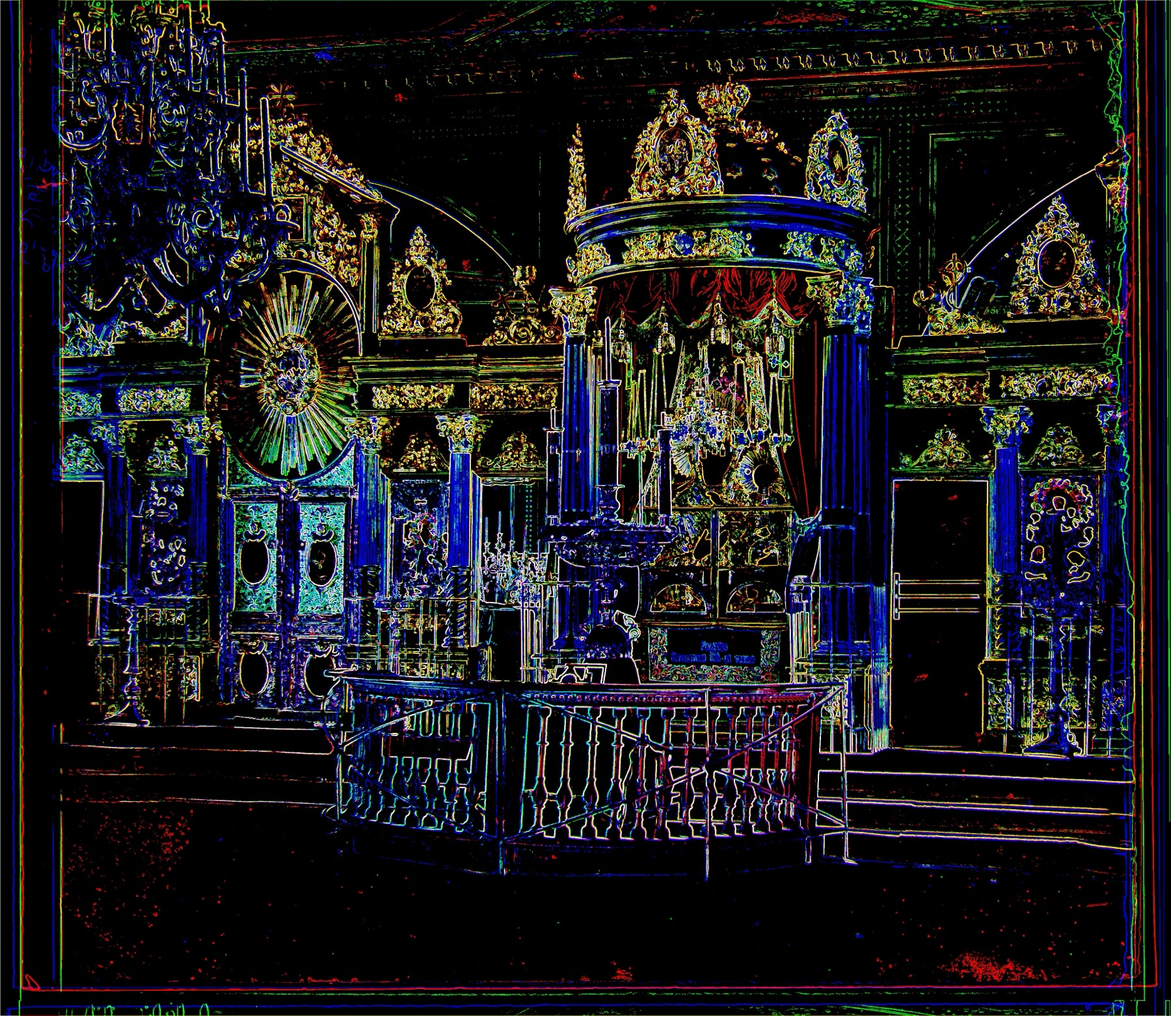
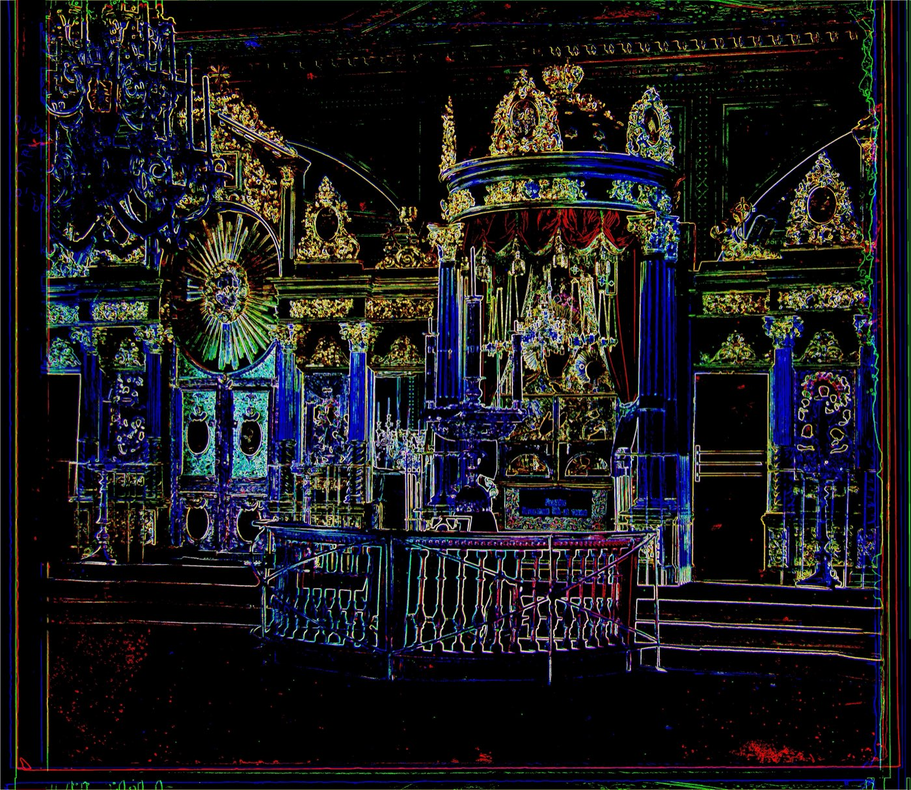
optimize all images

Changed region(s): [[0.0307, 0.0, 0.9829, 0.8534], [0.9521, 0.9448, 0.9829, 0.9753], [0.9521, 0.8229, 0.9829, 0.8534]]

diff --git a/cs180/russia_images.html b/cs180/russia_images.html
@@ -84,13 +84,13 @@
     <div class="image-row">
       <div class="image-col">
         <figure>
-          <img src="media/proj1/color_adjusted/icon.jpg" alt="Icon Features" loading="lazy" class="feature-image">
+          <img src="media/proj1/color_adjusted/icon_opt.jpg" alt="Icon Features" loading="lazy" class="feature-image">
           <figcaption>Icon Image</figcaption>
         </figure>
       </div>
       <div class="image-col">
         <figure>
-          <img src="media/proj1/image_features/icon_feats.jpg" alt="Icon Features" loading="lazy" class="feature-image">
+          <img src="media/proj1/image_features/optimized/icon_feats_opt.jpg" alt="Icon Features" loading="lazy" class="feature-image">
           <figcaption>Icon Features</figcaption>
         </figure>
       </div>
@@ -137,11 +137,11 @@
       <div class="image-figures">
         <figure>
           <figcaption>No Correction</figcaption>
-          <img src="media/proj1/overlayed/lastochikino.jpg" alt="Lastochikino - No Correction">
+          <img src="media/proj1/overlayed/lastochikino_opt.jpg" alt="Lastochikino - No Correction">
         </figure>
         <figure>
           <figcaption>Color Correction</figcaption>
-          <img src="media/proj1/color_adjusted/lastochikino.jpg" alt="Lastochikino - Color Adjusted">
+          <img src="media/proj1/color_adjusted/lastochikino_opt.jpg" alt="Lastochikino - Color Adjusted">
         </figure>
       </div>
       <div class="image-metadata">lastochikino rb: [-75, 8] rg: [-78, 6] time: 28s</div>
@@ -151,11 +151,11 @@
       <div class="image-figures">
         <figure>
           <figcaption>No Correction</figcaption>
-          <img src="media/proj1/overlayed/harvesters.jpg" alt="Harvesters - No Correction">
+          <img src="media/proj1/overlayed/harvesters_opt.jpg" alt="Harvesters - No Correction">
         </figure>
         <figure>
           <figcaption>Color Correction</figcaption>
-          <img src="media/proj1/color_adjusted/harvesters.jpg" alt="Harvesters - Color Adjusted">
+          <img src="media/proj1/color_adjusted/harvesters_opt.jpg" alt="Harvesters - Color Adjusted">
         </figure>
       </div>
       <div class="image-metadata">harvesters rb: [-123, -14] rg: [-64, 3] time: 24s</div>
@@ -164,10 +164,10 @@
     <div class="image-pair">
       <div class="image-figures">
         <figure>
-          <img src="media/proj1/overlayed/icon.jpg" alt="Icon - No Correction">
+          <img src="media/proj1/overlayed/icon_opt.jpg" alt="Icon - No Correction">
         </figure>
         <figure>
-          <img src="media/proj1/color_adjusted/icon.jpg" alt="Icon - Color Adjusted">
+          <img src="media/proj1/color_adjusted/icon_opt.jpg" alt="Icon - Color Adjusted">
         </figure>
       </div>
       <div class="image-metadata">icon rb: [-90, -23] rg: [-49, -5] time: 25s</div>
@@ -176,10 +176,10 @@
     <div class="image-pair">
       <div class="image-figures">
         <figure>
-          <img src="media/proj1/overlayed/church.jpg" alt="Church - No Correction">
+          <img src="media/proj1/overlayed/church_opt.jpg" alt="Church - No Correction">
         </figure>
         <figure>
-          <img src="media/proj1/color_adjusted/church.jpg" alt="Church - Color Adjusted">
+          <img src="media/proj1/color_adjusted/church_opt.jpg" alt="Church - Color Adjusted">
         </figure>
       </div>
       <div class="image-metadata">church rb: [-58, 4] rg: [-33, 8] time: 26s</div>
@@ -188,10 +188,10 @@
   <div class="image-pair">
     <div class="image-figures">
       <figure>
-        <img src="media/proj1/overlayed/bonus-forest.jpg" alt="Forest - No Correction">
+        <img src="media/proj1/overlayed/bonus-forest_opt.jpg" alt="Forest - No Correction">
       </figure>
       <figure>
-        <img src="media/proj1/color_adjusted/bonus-forest.jpg" alt="Forest - Color Adjusted">
+        <img src="media/proj1/color_adjusted/bonus-forest_opt.jpg" alt="Forest - Color Adjusted">
       </figure>
     </div>
     <div class="image-metadata">forest rb: [-97, -8] rg: [-59, -35] time: 25s</div>
@@ -200,10 +200,10 @@
     <div class="image-pair">
       <div class="image-figures">
         <figure>
-          <img src="media/proj1/overlayed/bonus-train.jpg" alt="Bonus Train - No Correction">
+          <img src="media/proj1/overlayed/bonus-train_opt.jpg" alt="Bonus Train - No Correction">
         </figure>
         <figure>
-          <img src="media/proj1/color_adjusted/bonus-train.jpg" alt="Bonus Train - Color Adjusted">
+          <img src="media/proj1/color_adjusted/bonus-train_opt.jpg" alt="Bonus Train - Color Adjusted">
         </figure>
       </div>
       <div class="image-metadata">train* rb: [-292, -168] rg: [-254, 199] time: 28s</div>
@@ -212,10 +212,10 @@
     <div class="image-pair">
       <div class="image-figures">
         <figure>
-          <img src="media/proj1/overlayed/bonus-bridge.jpg" alt="Bonus Bridge - No Correction">
+          <img src="media/proj1/overlayed/bonus-bridge_opt.jpg" alt="Bonus Bridge - No Correction">
         </figure>
         <figure>
-          <img src="media/proj1/color_adjusted/bonus-bridge.jpg" alt="Bonus Bridge - Color Adjusted">
+          <img src="media/proj1/color_adjusted/bonus-bridge_opt.jpg" alt="Bonus Bridge - Color Adjusted">
         </figure>
       </div>
       <div class="image-metadata">bridge rb: [-117, 28] rg: [-54, 15] time: 39s</div>
@@ -224,10 +224,10 @@
     <div class="image-pair">
       <div class="image-figures">
         <figure>
-          <img src="media/proj1/overlayed/bonus-greenhouse.jpg" alt="Bonus Greenhouse - No Correction">
+          <img src="media/proj1/overlayed/bonus-greenhouse_opt.jpg" alt="Bonus Greenhouse - No Correction">
         </figure>
         <figure>
-          <img src="media/proj1/color_adjusted/bonus-greenhouse.jpg" alt="Bonus Greenhouse - Color Adjusted">
+          <img src="media/proj1/color_adjusted/bonus-greenhouse_opt.jpg" alt="Bonus Greenhouse - Color Adjusted">
         </figure>
       </div>
       <div class="image-metadata">greenhouse rb: [-126, -33] rg: [-66, -6] time: 28s</div>
@@ -236,10 +236,10 @@
     <div class="image-pair">
       <div class="image-figures">
         <figure>
-          <img src="media/proj1/overlayed/cathedral.jpg" alt="Cathedral - No Correction">
+          <img src="media/proj1/overlayed/cathedral_opt.jpg" alt="Cathedral - No Correction">
         </figure>
         <figure>
-          <img src="media/proj1/color_adjusted/cathedral.jpg" alt="Cathedral - Color Adjusted">
+          <img src="media/proj1/color_adjusted/cathedral_opt.jpg" alt="Cathedral - Color Adjusted">
         </figure>
       </div>
       <div class="image-metadata">cathedral rb: [-12, -3] rg: [-7, -1] time: 1s</div>
@@ -248,10 +248,10 @@
     <div class="image-pair">
       <div class="image-figures">
         <figure>
-          <img src="media/proj1/overlayed/emir.jpg" alt="Emir - No Correction">
+          <img src="media/proj1/overlayed/emir_opt.jpg" alt="Emir - No Correction">
         </figure>
         <figure>
-          <img src="media/proj1/color_adjusted/emir.jpg" alt="Emir - Color Adjusted">
+          <img src="media/proj1/color_adjusted/emir_opt.jpg" alt="Emir - Color Adjusted">
         </figure>
       </div>
       <div class="image-metadata">emir rb: [-107, -41] rg: [-57, -17] time: 24s</div>
@@ -261,10 +261,10 @@
     <div class="image-pair">
       <div class="image-figures">
         <figure>
-          <img src="media/proj1/overlayed/italil.jpg" alt="Italil - No Correction">
+          <img src="media/proj1/overlayed/italil_opt.jpg" alt="Italil - No Correction">
         </figure>
         <figure>
-          <img src="media/proj1/color_adjusted/italil.jpg" alt="Italil - Color Adjusted">
+          <img src="media/proj1/color_adjusted/italil_opt.jpg" alt="Italil - Color Adjusted">
         </figure>
       </div>
       <div class="image-metadata">italil rb: [-76, -36] rg: [-39, -15] time: 26s</div>
@@ -273,10 +273,10 @@
     <div class="image-pair">
       <div class="image-figures">
         <figure>
-          <img src="media/proj1/overlayed/lugano.jpg" alt="Lugano - No Correction">
+          <img src="media/proj1/overlayed/lugano_opt.jpg" alt="Lugano - No Correction">
         </figure>
         <figure>
-          <img src="media/proj1/color_adjusted/lugano.jpg" alt="Lugano - Color Adjusted">
+          <img src="media/proj1/color_adjusted/lugano_opt.jpg" alt="Lugano - Color Adjusted">
         </figure>
       </div>
       <div class="image-metadata">lugano rb: [-92, 28] rg: [-52, 13] time: 26s</div>
@@ -285,10 +285,10 @@
     <div class="image-pair">
       <div class="image-figures">
         <figure>
-          <img src="media/proj1/overlayed/melons.jpg" alt="Melons - No Correction">
+          <img src="media/proj1/overlayed/melons_opt.jpg" alt="Melons - No Correction">
         </figure>
         <figure>
-          <img src="media/proj1/color_adjusted/melons.jpg" alt="Melons - Color Adjusted">
+          <img src="media/proj1/color_adjusted/melons_opt.jpg" alt="Melons - Color Adjusted">
         </figure>
       </div>
       <div class="image-metadata">melons rb: [-181, -13] rg: [-96, -3] time: 34s</div>
@@ -297,10 +297,10 @@
     <div class="image-pair">
       <div class="image-figures">
         <figure>
-          <img src="media/proj1/overlayed/monastery.jpg" alt="Monastery - No Correction">
+          <img src="media/proj1/overlayed/monastery_opt.jpg" alt="Monastery - No Correction">
         </figure>
         <figure>
-          <img src="media/proj1/color_adjusted/monastery.jpg" alt="Monastery - Color Adjusted">
+          <img src="media/proj1/color_adjusted/monastery_opt.jpg" alt="Monastery - Color Adjusted">
         </figure>
       </div>
       <div class="image-metadata">monastery rb: [-3, -2] rg: [-6, -1] time: 3s</div>
@@ -309,10 +309,10 @@
     <div class="image-pair">
       <div class="image-figures">
         <figure>
-          <img src="media/proj1/overlayed/self_portrait.jpg" alt="Self Portrait - No Correction">
+          <img src="media/proj1/overlayed/self_portrait_opt.jpg" alt="Self Portrait - No Correction">
         </figure>
         <figure>
-          <img src="media/proj1/color_adjusted/self_portrait.jpg" alt="Self Portrait - Color Adjusted">
+          <img src="media/proj1/color_adjusted/self_portrait_opt.jpg" alt="Self Portrait - Color Adjusted">
         </figure>
       </div>
       <div class="image-metadata">self portrait rb: [-175, -37] rg: [-98, -8] time: 40s</div>
@@ -321,10 +321,10 @@
     <div class="image-pair">
       <div class="image-figures">
         <figure>
-          <img src="media/proj1/overlayed/siren.jpg" alt="Siren - No Correction">
+          <img src="media/proj1/overlayed/siren_opt.jpg" alt="Siren - No Correction">
         </figure>
         <figure>
-          <img src="media/proj1/color_adjusted/siren.jpg" alt="Siren - Color Adjusted">
+          <img src="media/proj1/color_adjusted/siren_opt.jpg" alt="Siren - Color Adjusted">
         </figure>
       </div>
       <div class="image-metadata">siren rb: [-96, 23] rg: [-47, 19] time: 38s</div>
@@ -333,10 +333,10 @@
     <div class="image-pair">
       <div class="image-figures">
         <figure>
-          <img src="media/proj1/overlayed/three_generations.jpg" alt="Three Generations - No Correction">
+          <img src="media/proj1/overlayed/three_generations_opt.jpg" alt="Three Generations - No Correction">
         </figure>
         <figure>
-          <img src="media/proj1/color_adjusted/three_generations.jpg" alt="Three Generations - Color Adjusted">
+          <img src="media/proj1/color_adjusted/three_generations_opt.jpg" alt="Three Generations - Color Adjusted">
         </figure>
       </div>
       <div class="image-metadata">three generations rb: [-110, -12] rg: [-59, 4] time: 25s</div>
@@ -345,10 +345,10 @@
     <div class="image-pair">
       <div class="image-figures">
         <figure>
-          <img src="media/proj1/overlayed/tobolsk.jpg" alt="Tobolsk - No Correction">
+          <img src="media/proj1/overlayed/tobolsk_opt.jpg" alt="Tobolsk - No Correction">
         </figure>
         <figure>
-          <img src="media/proj1/color_adjusted/tobolsk.jpg" alt="Tobolsk - Color Adjusted">
+          <img src="media/proj1/color_adjusted/tobolsk_opt.jpg" alt="Tobolsk - Color Adjusted">
         </figure>
       </div>
       <div class="image-metadata">tobolsk rb: [-6, -3] rg: [-4, 0] time: 1s</div>
